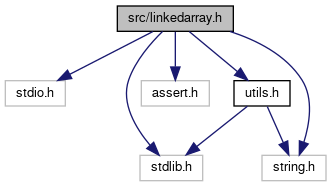
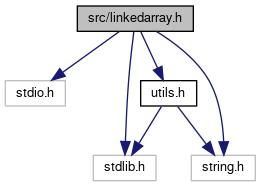
deploy: fc4b4152cc7c5af28dcf001b7317c6e5c18980f1

diff --git a/linkedarray_8h.html b/linkedarray_8h.html
@@ -79,7 +79,6 @@ $(function() {
 <a href="#details">More...</a></p>
 <div class="textblock"><code>#include &lt;stdio.h&gt;</code><br />
 <code>#include &lt;stdlib.h&gt;</code><br />
-<code>#include &lt;assert.h&gt;</code><br />
 <code>#include &lt;string.h&gt;</code><br />
 <code>#include &quot;<a class="el" href="utils_8h_source.html">utils.h</a>&quot;</code><br />
 </div><div class="textblock"><div class="dynheader">
@@ -87,12 +86,11 @@ Include dependency graph for linkedarray.h:</div>
 <div class="dyncontent">
 <div class="center"><img src="linkedarray_8h__incl.png" border="0" usemap="#asrc_2linkedarray_8h" alt=""/></div>
 <map name="asrc_2linkedarray_8h" id="asrc_2linkedarray_8h">
-<area shape="rect" title="Unrolled linked list for finding K&#45;least element." alt="" coords="117,5,233,32"/>
+<area shape="rect" title="Unrolled linked list for finding K&#45;least element." alt="" coords="77,5,193,32"/>
 <area shape="rect" title=" " alt="" coords="5,80,65,107"/>
-<area shape="rect" title=" " alt="" coords="140,155,203,181"/>
-<area shape="rect" title=" " alt="" coords="141,80,209,107"/>
-<area shape="rect" title=" " alt="" coords="262,155,326,181"/>
-<area shape="rect" href="utils_8h.html" title="General Utilities for C language." alt="" coords="234,80,290,107"/>
+<area shape="rect" title=" " alt="" coords="93,155,156,181"/>
+<area shape="rect" title=" " alt="" coords="191,155,255,181"/>
+<area shape="rect" href="utils_8h.html" title="General Utilities for C language." alt="" coords="141,80,197,107"/>
 </map>
 </div>
 </div><div class="textblock"><div class="dynheader">

diff --git a/main_8c.html b/main_8c.html
@@ -82,13 +82,12 @@ Include dependency graph for main.c:</div>
 <div class="dyncontent">
 <div class="center"><img src="main_8c__incl.png" border="0" usemap="#asrc_2main_8c" alt=""/></div>
 <map name="asrc_2main_8c" id="asrc_2main_8c">
-<area shape="rect" title="DSA2021 HW1 P6: K least member. This package is majorly done by myself. The algorithm part is inspire..." alt="" coords="17,5,100,32"/>
-<area shape="rect" title=" " alt="" coords="28,155,88,181"/>
-<area shape="rect" title=" " alt="" coords="95,229,158,256"/>
-<area shape="rect" href="linkedarray_8h.html" title="Unrolled linked list for finding K&#45;least element." alt="" coords="120,80,215,107"/>
-<area shape="rect" title=" " alt="" coords="295,155,363,181"/>
-<area shape="rect" title=" " alt="" coords="204,229,268,256"/>
-<area shape="rect" href="utils_8h.html" title="General Utilities for C language." alt="" coords="164,155,220,181"/>
+<area shape="rect" title="DSA2021 HW1 P6: K least member. This package is majorly done by myself. The algorithm part is inspire..." alt="" coords="9,5,91,32"/>
+<area shape="rect" title=" " alt="" coords="29,155,89,181"/>
+<area shape="rect" title=" " alt="" coords="96,229,159,256"/>
+<area shape="rect" href="linkedarray_8h.html" title="Unrolled linked list for finding K&#45;least element." alt="" coords="88,80,183,107"/>
+<area shape="rect" title=" " alt="" coords="205,229,269,256"/>
+<area shape="rect" href="utils_8h.html" title="General Utilities for C language." alt="" coords="165,155,221,181"/>
 </map>
 </div>
 </div><table class="memberdecls">

diff --git a/test__linkedarray_8h.html b/test__linkedarray_8h.html
@@ -80,14 +80,13 @@ Include dependency graph for test_linkedarray.h:</div>
 <div class="dyncontent">
 <div class="center"><img src="test__linkedarray_8h__incl.png" border="0" usemap="#atest_2test__linkedarray_8h" alt=""/></div>
 <map name="atest_2test__linkedarray_8h" id="atest_2test__linkedarray_8h">
-<area shape="rect" title=" " alt="" coords="77,5,226,32"/>
-<area shape="rect" href="linkedarray_8h.html" title="Unrolled linked list for finding K&#45;least element." alt="" coords="104,80,199,107"/>
+<area shape="rect" title=" " alt="" coords="27,5,177,32"/>
+<area shape="rect" href="linkedarray_8h.html" title="Unrolled linked list for finding K&#45;least element." alt="" coords="55,80,149,107"/>
 <area shape="rect" title=" " alt="" coords="5,229,68,256"/>
-<area shape="rect" title=" " alt="" coords="223,80,280,107"/>
-<area shape="rect" title=" " alt="" coords="248,155,308,181"/>
-<area shape="rect" title=" " alt="" coords="75,155,143,181"/>
-<area shape="rect" title=" " alt="" coords="238,229,302,256"/>
-<area shape="rect" href="utils_8h.html" title="General Utilities for C language." alt="" coords="167,155,223,181"/>
+<area shape="rect" title=" " alt="" coords="173,80,231,107"/>
+<area shape="rect" title=" " alt="" coords="155,155,215,181"/>
+<area shape="rect" title=" " alt="" coords="157,229,221,256"/>
+<area shape="rect" href="utils_8h.html" title="General Utilities for C language." alt="" coords="74,155,130,181"/>
 </map>
 </div>
 </div>

diff --git a/linkedarray_8h_source.html b/linkedarray_8h_source.html
@@ -75,7 +75,7 @@ $(function() {
 <div class="line"><a name="l00014"></a><span class="lineno">   14</span>&#160; </div>
 <div class="line"><a name="l00015"></a><span class="lineno">   15</span>&#160;<span class="preprocessor">#include &lt;stdio.h&gt;</span></div>
 <div class="line"><a name="l00016"></a><span class="lineno">   16</span>&#160;<span class="preprocessor">#include &lt;stdlib.h&gt;</span></div>
-<div class="line"><a name="l00017"></a><span class="lineno">   17</span>&#160;<span class="preprocessor">#include &lt;assert.h&gt;</span></div>
+<div class="line"><a name="l00017"></a><span class="lineno">   17</span>&#160;<span class="comment">//#include &lt;assert.h&gt;</span></div>
 <div class="line"><a name="l00018"></a><span class="lineno">   18</span>&#160;<span class="preprocessor">#include &lt;string.h&gt;</span></div>
 <div class="line"><a name="l00019"></a><span class="lineno">   19</span>&#160;<span class="preprocessor">#include &quot;<a class="code" href="utils_8h.html">utils.h</a>&quot;</span></div>
 <div class="line"><a name="l00020"></a><span class="lineno">   20</span>&#160; </div>
